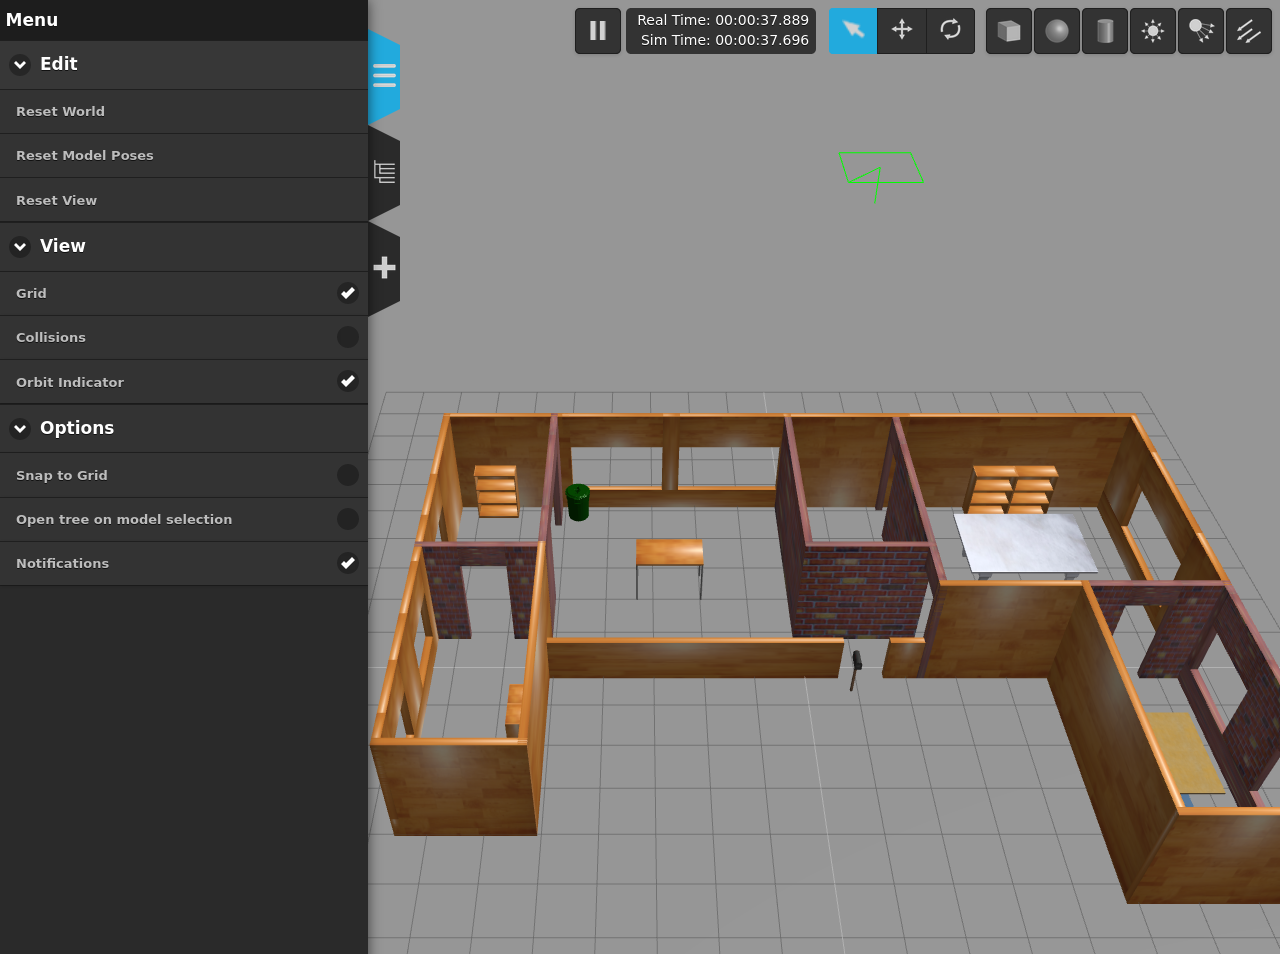
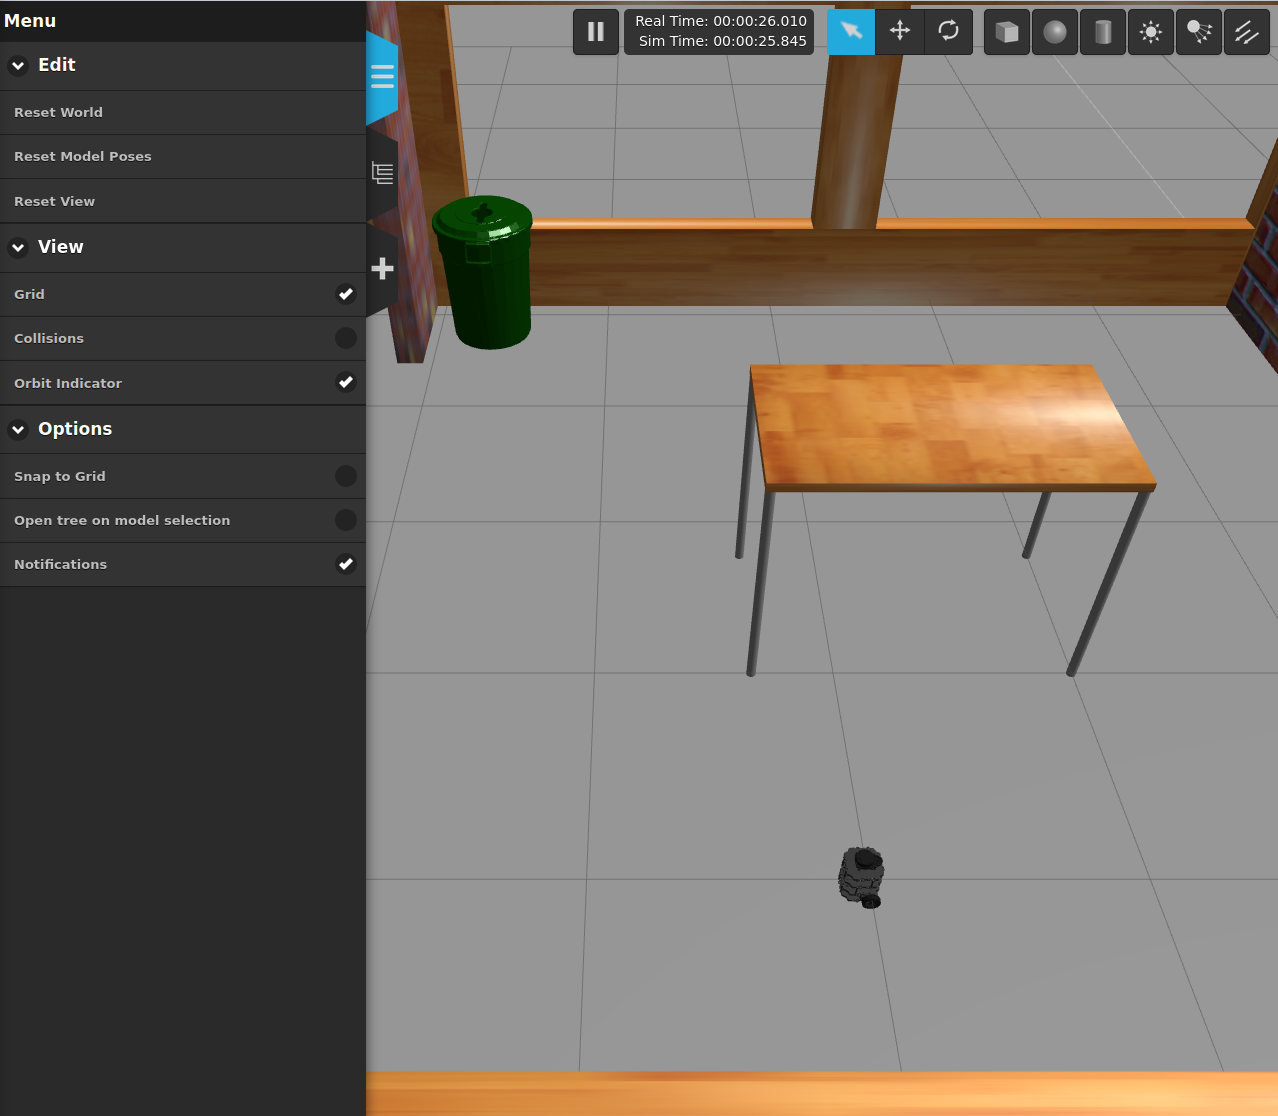
TurtleBot3 works!

diff --git a/turtlebot3/README.rst b/turtlebot3/README.rst
@@ -7,8 +7,7 @@ TurtleBot3
 Status
 ------
 
-The simulated world loads as expected in gzweb, but the model currently does
-not since it hasn't updated to support gzweb via a :code:`postbuild.sh` script.
+It works!
 
 .. image:: gzweb-progress.png
 
